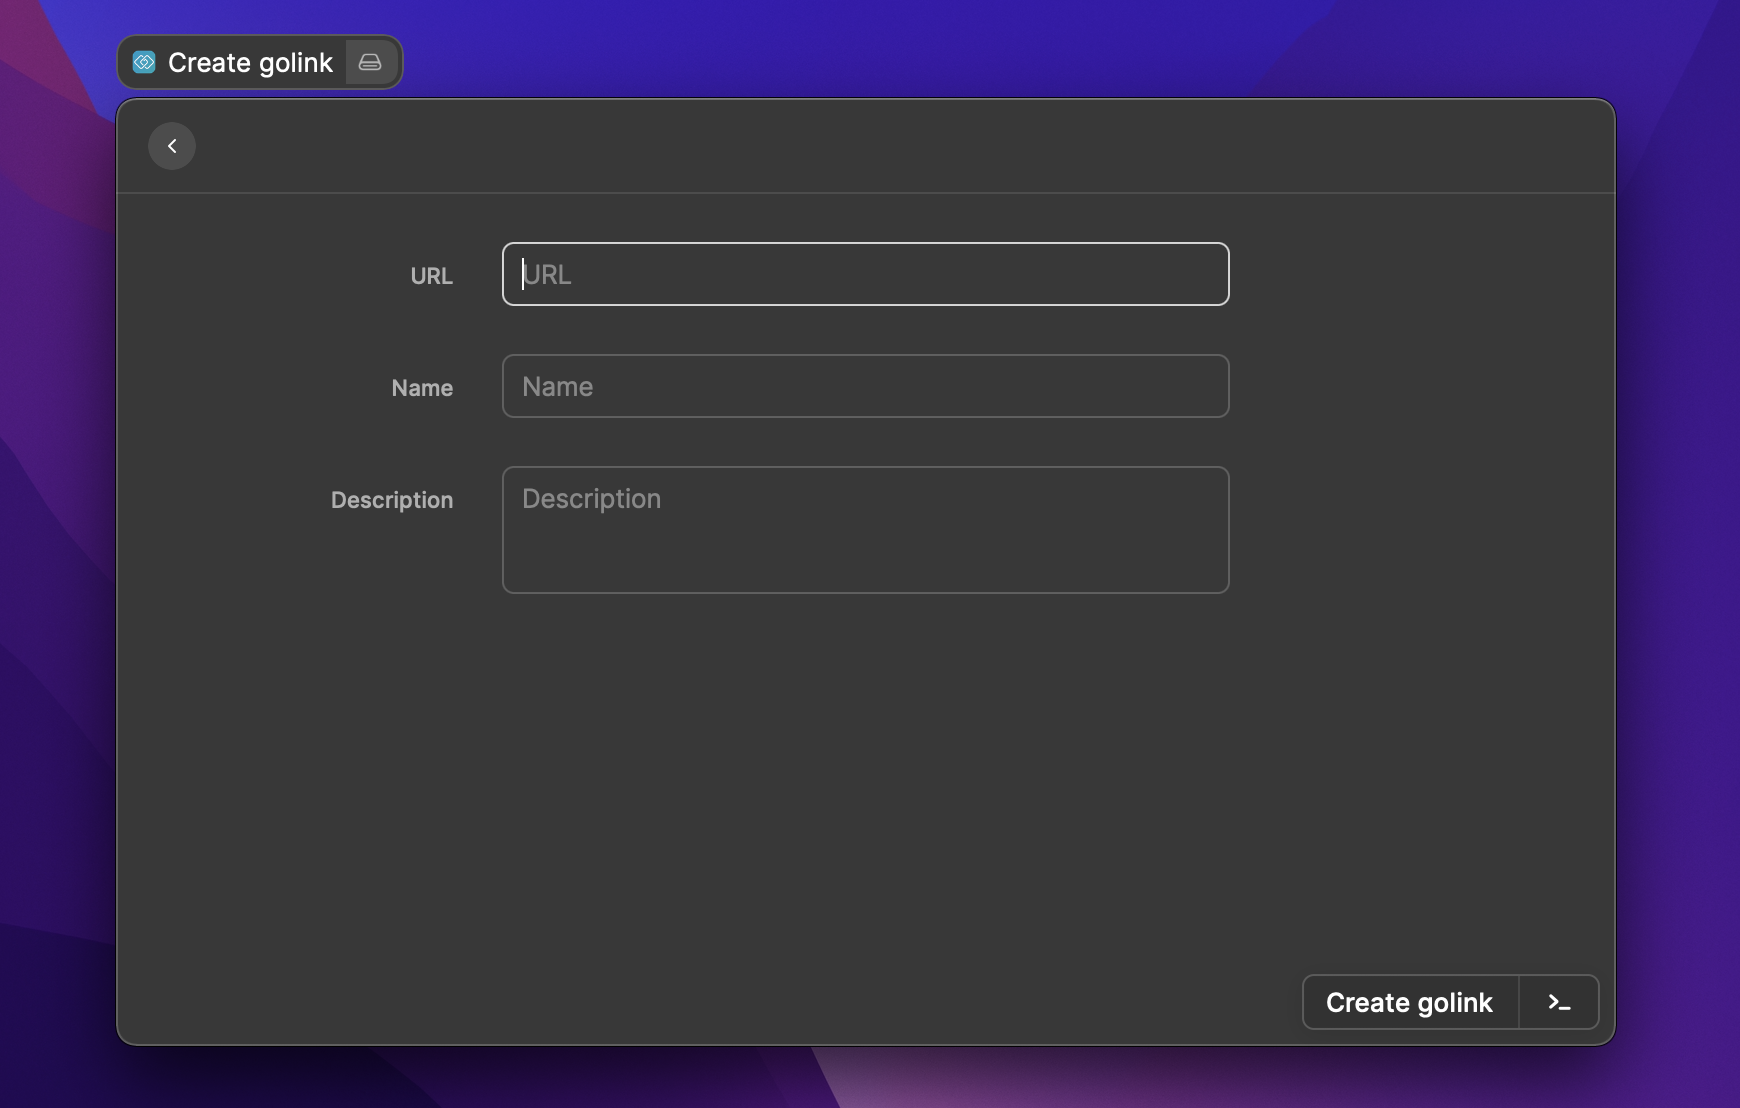
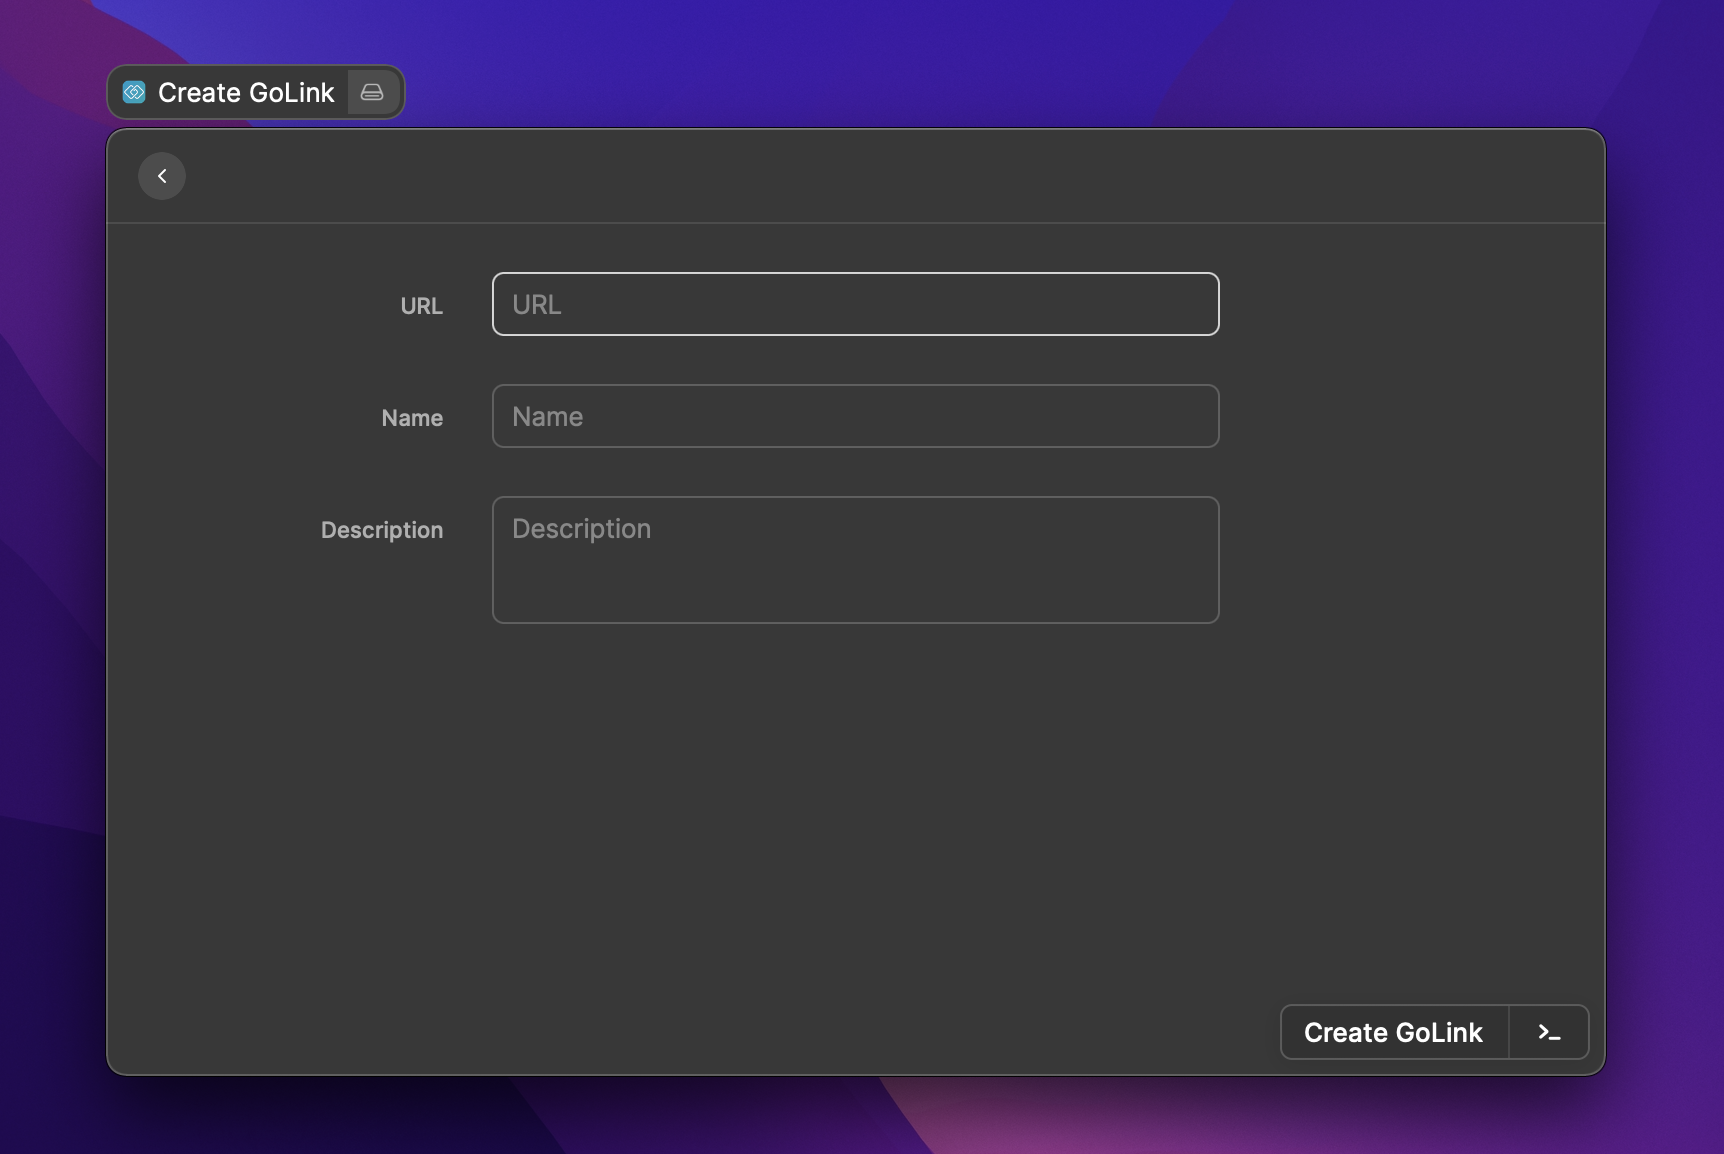
Fix wordings (#4)

diff --git a/src/api.ts b/src/api.ts
@@ -2,7 +2,7 @@ import { showToast, ToastStyle, getPreferenceValues } from '@raycast/api'
 import { URLSearchParams } from 'url'
 import useSWR from 'swr'
 import axios, { AxiosError } from 'axios'
-import { Golink } from './types'
+import { GoLink } from './types'
 
 interface Preferences {
   token: string
@@ -32,17 +32,17 @@ export function useFetch<T>(path: string): FetchResult<T> {
   return { data, isLoading: !error && !data, error: new Error(error?.message) }
 }
 
-export async function createGolink(name: string, url: string, description: string): Promise<void> {
+export async function createGoLink(name: string, url: string, description: string): Promise<void> {
   try {
     const params = new URLSearchParams()
     params.append('name', name)
     params.append('url', url)
     params.append('description', description)
 
-    await api.post<Golink>('/golinks', params)
+    await api.post<GoLink>('/golinks', params)
 
-    showToast(ToastStyle.Success, 'golink created')
+    showToast(ToastStyle.Success, 'GoLink created')
   } catch (error) {
-    showToast(ToastStyle.Failure, `Failed to create golink: ${error}`)
+    showToast(ToastStyle.Failure, `Failed to create GoLink: ${error}`)
   }
 }

diff --git a/src/list.tsx b/src/list.tsx
@@ -1,22 +1,22 @@
 import { ActionPanel, CopyToClipboardAction, List, OpenInBrowserAction } from '@raycast/api'
 import { useFetch } from './api'
-import { Golink } from './types'
+import { GoLink } from './types'
 
-export default function ListGolink() {
+export default function ListGoLink() {
   const { data, isLoading } = useFetch('/golinks?limit=100')
 
-  const golinks = (data as { results: Golink[] })?.results || []
+  const golinks = (data as { results: GoLink[] })?.results || []
 
   return (
-    <List isLoading={golinks?.length === 0 || isLoading} searchBarPlaceholder="Filter golinks by name...">
+    <List isLoading={golinks?.length === 0 || isLoading} searchBarPlaceholder="Filter GoLinks by name...">
       {golinks.map((l) => {
-        return <GolinkListItem key={l.gid} golink={l} />
+        return <GoLinkListItem key={l.gid} golink={l} />
       })}
     </List>
   )
 }
 
-function GolinkListItem(props: { golink: Golink }) {
+function GoLinkListItem(props: { golink: GoLink }) {
   const golink = props.golink
 
   return (

diff --git a/src/create.tsx b/src/create.tsx
@@ -1,12 +1,12 @@
 import { ActionPanel, Form, FormValue, SubmitFormAction, popToRoot, showToast, ToastStyle } from '@raycast/api'
-import { createGolink } from './api'
+import { createGoLink } from './api'
 
-export default function CreateGolink() {
+export default function CreateGoLink() {
   return (
     <Form
       actions={
         <ActionPanel>
-          <SubmitFormAction title="Create golink" onSubmit={submit} />
+          <SubmitFormAction title="Create GoLink" onSubmit={submit} />
         </ActionPanel>
       }
     >
@@ -20,9 +20,9 @@ export default function CreateGolink() {
 async function submit(values: Record<string, FormValue>) {
   const body = { ...values }
 
-  showToast(ToastStyle.Animated, 'Creating golink...')
+  showToast(ToastStyle.Animated, 'Creating GoLink...')
 
-  await createGolink(body.name as string, body.url as string, body.description as string)
+  await createGoLink(body.name as string, body.url as string, body.description as string)
 
   popToRoot()
 }

diff --git a/src/types.ts b/src/types.ts
@@ -1,4 +1,4 @@
-export interface Golink {
+export interface GoLink {
   gid: number
   name: string
   url: string

diff --git a/README.md b/README.md
@@ -2,7 +2,7 @@
 
 A [Raycast Extension](https://developers.raycast.com) for [GoLinks](https://www.golinks.io).
 
-https://user-images.githubusercontent.com/21333876/141518995-a408d0f3-c4cf-418f-abbc-4cd555fa40c8.mov
+https://user-images.githubusercontent.com/21333876/141827027-ccedcd91-a174-4e2c-acdc-590061f13f6e.mov
 
 ## Getting Started
 
@@ -16,17 +16,17 @@ See the [GoLinks document](https://docs.golinks.io/#19f87188-f2fb-4b75-bf69-83f0
 
 ## Commands
 
-### Search golinks
+### Search GoLinks
 
 ![screenshot-list](./docs/assets/screenshot-list.png)
 
-Lets you search golinks and then open a selected golink.
+Lets you search your GoLinks and then open a selected GoLink.
 
-### Create golink
+### Create GoLink
 
 ![screenshot-create](./docs/assets/screenshot-create.png)
 
-Lets you create a new golink.
+Lets you create a new GoLink.
 
 ## License
 
